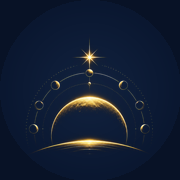
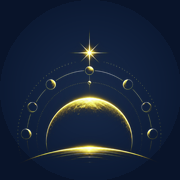
Ikony viditelnejsi: emblem pres celou plochu (fill 106 %), jas +18 %, sytost +12 %, maskable v bezpecne zone; nove i favicony a apple-touch + SW v95

diff --git a/index.html b/index.html
@@ -16,10 +16,10 @@ document.documentElement.dataset.theme=t;
 var c={day:'#0A4FA8',night:'#040A18'}[t];
 var mt=document.querySelector('meta[name=theme-color]');if(mt)mt.setAttribute('content',c);}catch(e){}})();</script>
 <link rel="manifest" href="manifest.webmanifest">
-<link rel="icon" href="favicon-32.png?v=1" sizes="32x32" type="image/png">
-<link rel="icon" href="favicon-16.png?v=1" sizes="16x16" type="image/png">
+<link rel="icon" href="favicon-32.png?v=2" sizes="32x32" type="image/png">
+<link rel="icon" href="favicon-16.png?v=2" sizes="16x16" type="image/png">
 <link rel="icon" href="icon-192.png" sizes="192x192" type="image/png">
-<link rel="apple-touch-icon" href="apple-touch-icon.png?v=1">
+<link rel="apple-touch-icon" href="apple-touch-icon.png?v=2">
 <link rel="preconnect" href="https://fonts.googleapis.com">
 <link rel="preconnect" href="https://fonts.gstatic.com" crossorigin>
 <link rel="stylesheet" href="https://fonts.googleapis.com/css2?family=Cormorant+Garamond:ital,wght@0,500;0,600;1,500&family=IBM+Plex+Sans:wght@400;500;600&family=IBM+Plex+Mono:wght@400;500&display=swap">

diff --git a/sw.js b/sw.js
@@ -1,5 +1,5 @@
 /* Kairos – service worker. Při každé změně index.html zvedni číslo verze. */
-const CACHE = 'kairos-v94';
+const CACHE = 'kairos-v95';
 const SHELL = ['./', './index.html', './astronomy.browser.min.js', './manifest.webmanifest', './logo.png', './logo2.webp?v=1', './moon-tex.png?v=1', './icon-192.png', './icon-512.png', './icon-maskable-512.png', './sky-day.webp?v=7', './sky-night.webp?v=4', './sky-night-hd.webp?v=1', './sky-day-hd.webp?v=1'];
 
 self.addEventListener('install', (e) => {
